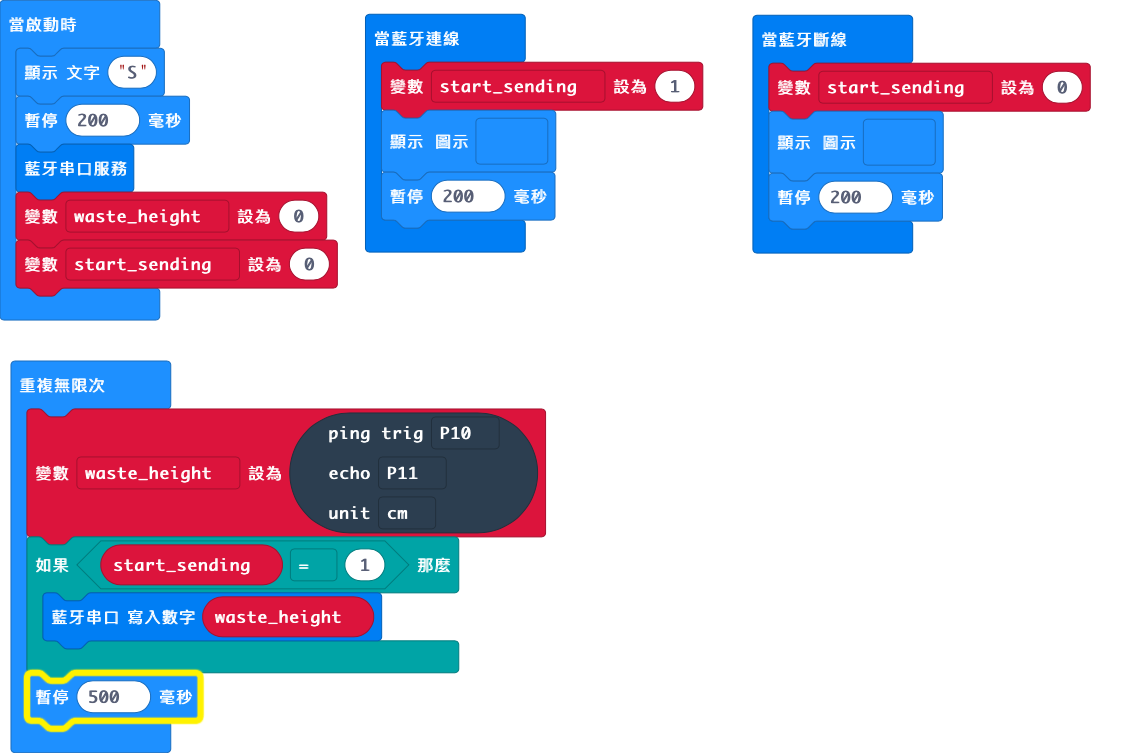
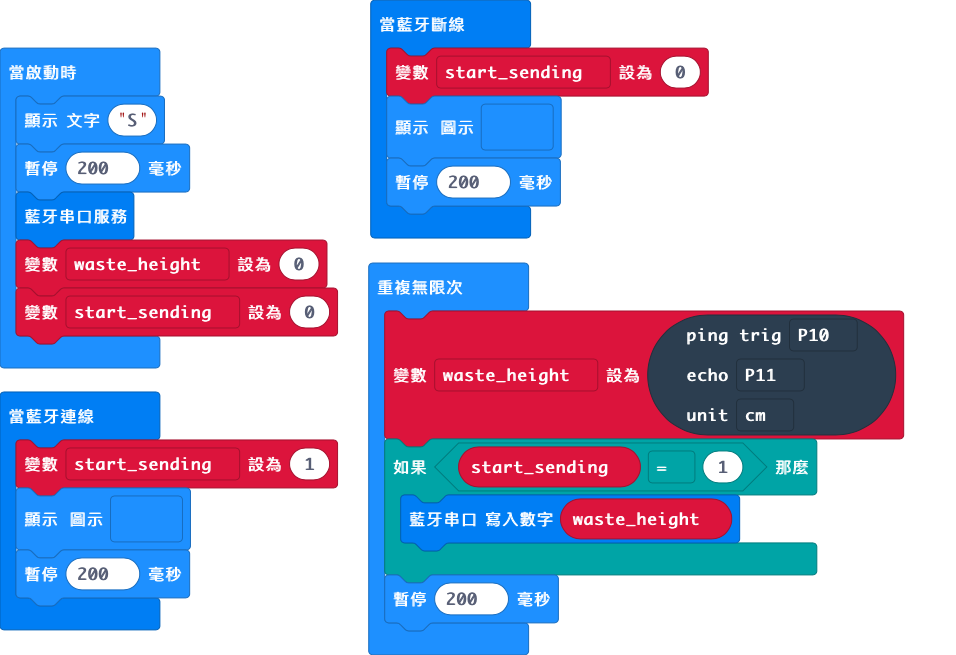
Update pxt.json, main.blocks, main.ts

diff --git a/main.ts b/main.ts
@@ -23,5 +23,5 @@ basic.forever(function () {
     if (start_sending2 == 1) {
         bluetooth.uartWriteNumber(waste_height)
     }
-    basic.pause(500)
+    basic.pause(200)
 })
